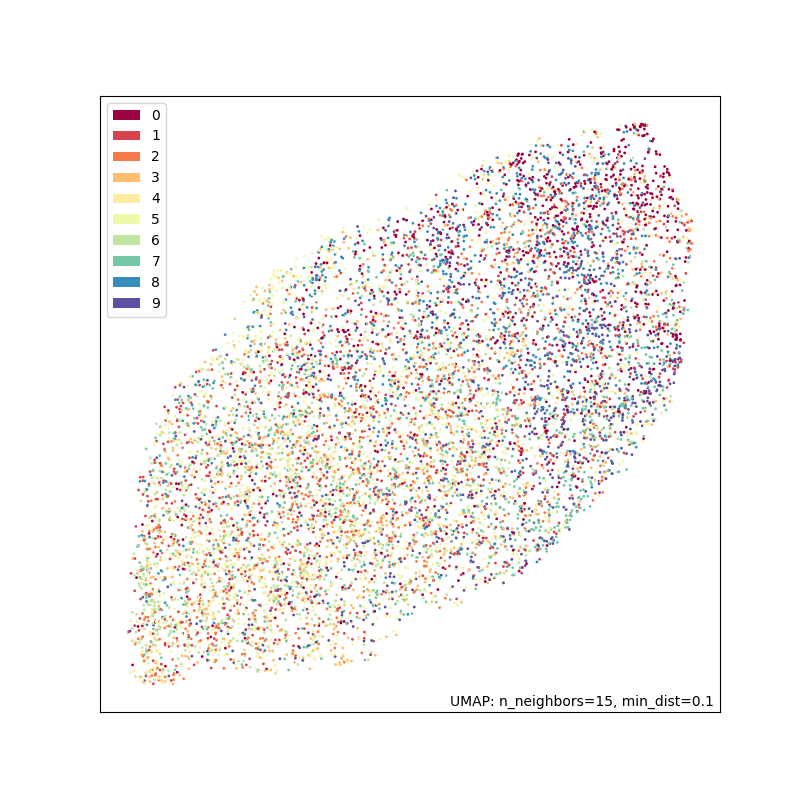
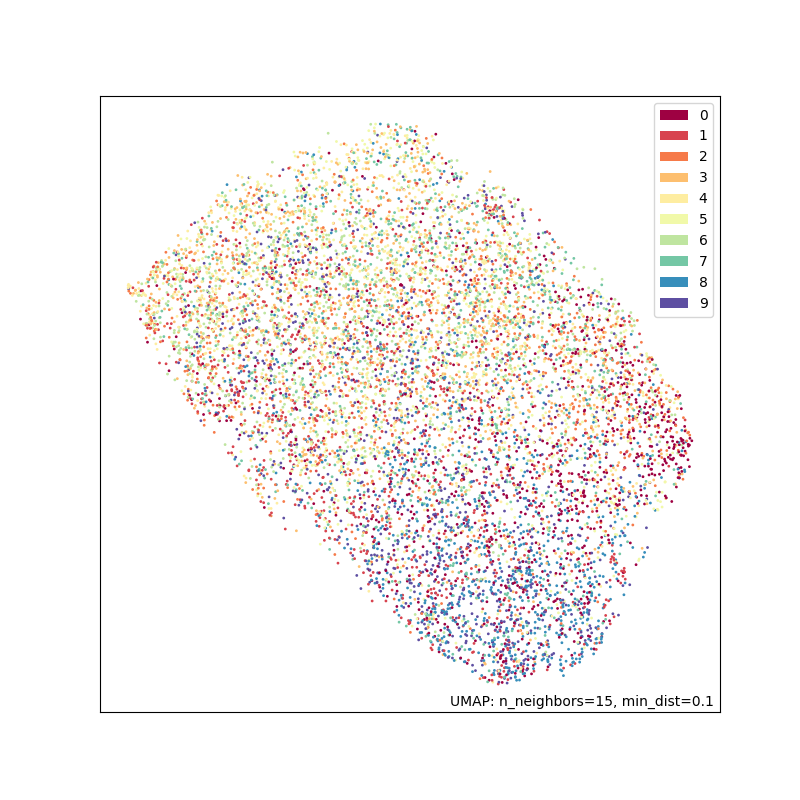
pseudo-classification experiments

Changed region(s): [[0.125, 0.125, 0.9062, 0.875]]

diff --git a/model/encoder_training_sandbox.py b/model/encoder_training_sandbox.py
@@ -121,7 +121,6 @@ class GradualSupervised(keras.Model):
         self.probe_accuracy = keras.metrics.SparseCategoricalAccuracy(name="p_acc")
 
         self.pseudo_loss = keras.losses.SparseCategoricalCrossentropy()
-        self.pseudo_loss_three = tf.keras.losses.SparseCategoricalCrossentropy()
 
 
     @property
@@ -252,6 +251,7 @@ class GradualSupervised(keras.Model):
         
         # print(f'{[c.shape for c in acc]}')
         return np.asarray(acc)
+    
     def pseudo_classified_test(self, unlabeled_images, labeled_images, labels):
         unlabeled_encodings = self.encoder(unlabeled_images)
         labeled_encodings = self.encoder(labeled_images)
@@ -309,45 +309,131 @@ class GradualSupervised(keras.Model):
         
         # print('finished!')
         exit()
-
-    
     
     def pseudo_classified_three(self, unlabeled_images, labeled_images, labels):
-        def distance_handler(unlabeled_encoding):
-            distances = tf.stack([tf.reduce_mean(tf.reduce_sum((tf.broadcast_to(unlabeled_encoding, c.shape) - c) ** 2, axis=1)) for c in labeled_encodings_by_class], axis=0)
-            softmax_distances = tf.nn.softmax(distances)
-            return softmax_distances
+        def distance_handler(unlabeled_encoding, distance_type='dot'):
+            if distance_type=='inv_euc':
+                ## euc_distances
+                distance = tf.stack(
+                    [tf.reduce_mean(
+                        1/tf.reduce_sum(
+                            (tf.broadcast_to(unlabeled_encoding, c.shape) - c) ** 2, axis=1)) for c in labeled_encodings_by_class], axis=0)
+            else: 
+                distances = tf.stack([tf.reduce_mean(
+                    tf.einsum('j, ij->i', unlabeled_encoding, c)) for c in labeled_encodings_by_class])
+            distances = tf.nn.softmax(distances)
+
+            return distances
+        def distance_handler_labeled_encodings(labeled_encoding, distance_type='dot'):
+
+            if distance_type=='inv_euc':
+                distances = tf.stack([tf.reduce_mean(
+                    1/tf.reduce_sum(
+                        (tf.broadcast_to(tf.expand_dims(labeled_encoding, axis=0), c.shape) - c) ** 2, axis=-1)) for c in unlabeled_labeled_weighted_distances], axis=0)
+            else:
+                distances = tf.stack([tf.reduce_mean(
+                    tf.einsum('j, ij->i', labeled_encoding, c)) for c in unlabeled_labeled_weighted_distances])
+            distances = tf.nn.softmax(distances)
+            return distances
         
-        unlabeled_encodings = self.encoder(unlabeled_images)
-        print(f'{unlabeled_encodings.shape=}') #TensorShape([263, 128])
-        print(f'{labels.shape=}') #[263, 1]
-        classes, idx = tf.unique(tf.squeeze(labels))
+        with tf.GradientTape() as tape:
+            unlabeled_encodings = self.encoder(unlabeled_images, training=False)
+            # print(f'{unlabeled_encodings.shape=}') #TensorShape([263, 128])
+            # print(f'{labels.shape=}') #[263, 1]
+            classes, _ = tf.unique(tf.squeeze(labels))
 
-        print(f'{classes.shape=}') #[10]
+            # print(f'{classes.shape=}') #[10]
 
-        class_indices = [tf.experimental.numpy.nonzero(labels==c)[0] for c in classes]
-        labels_by_class = [labels.numpy()[c_idx] for c_idx in class_indices]
-        labeled_images_by_class = [labeled_images.numpy()[c_idx] for c_idx in class_indices]
-        labeled_encodings_by_class = [self.encoder(c) for c in labeled_images_by_class]
-        unlabeled_labeled_softmaxed_distances = tf.map_fn(distance_handler, unlabeled_encodings)
-        # print(f'{unlabeled_labeled_softmaxed_distances.shape=}') #[263, 10]
-        unlabeled_labeled_weighted_distances = tf.einsum('ij, ik -> kij', unlabeled_encodings, unlabeled_labeled_softmaxed_distances)
-        print(f'{unlabeled_labeled_weighted_distances.shape=}') #[10, 128, 263]; [num_classes, enc_sz, num_unlabeled]
+            class_indices = [tf.experimental.numpy.nonzero(labels==c)[0] for c in classes]
+            labels_by_class = [labels.numpy()[c_idx] for c_idx in class_indices]
+            labeled_images_by_class = [labeled_images.numpy()[c_idx] for c_idx in class_indices]
+            labeled_encodings_by_class = [self.encoder(c, training=True) for c in labeled_images_by_class]
+            unlabeled_labeled_softmaxed_distances = tf.map_fn(distance_handler, unlabeled_encodings)
+            # print(f'{unlabeled_labeled_softmaxed_distances.shape=}') #[263, 10]
+            unlabeled_labeled_weighted_distances = tf.einsum('ij, ik -> kij', unlabeled_encodings, unlabeled_labeled_softmaxed_distances)
+            # print(f'{unlabeled_labeled_weighted_distances.shape=}') #[10, 128, 263]; [num_classes, enc_sz, num_unlabeled]
 
-        def distance_handler_labeled_encodings(labeled_encoding):
-            distance = tf.stack([tf.reduce_mean(tf.reduce_sum((tf.broadcast_to(tf.expand_dims(labeled_encoding, axis=0), c.shape) - c) ** 2, axis=-1)) for c in unlabeled_labeled_weighted_distances], axis=0)
-            distance = tf.nn.softmax(distance)
-            return distance
+            pseudo_loss_acc = 0
+            for labeled_encodings, class_labels in zip(labeled_encodings_by_class, labels_by_class):
+                # print(f'{labeled_encodings.shape=}')
+                pseudo_predictions = tf.map_fn(distance_handler_labeled_encodings, labeled_encodings)
+                # print(f'{pseudo_predictions.shape=}')
+
+                pseudo_loss = self.pseudo_loss(class_labels, pseudo_predictions)
+
+                # Class proportion-weighted loss accumulation
+                loss_weight = len(class_labels) / self.cur_num_classes
+                pseudo_loss_acc += loss_weight*pseudo_loss
+                # print(f'{pseudo_loss=}')
+
+        # encoder_gradients = [tape.gradient(pseudo_loss, self.encoder.trainable_weights) for pseudo_loss in pseudo_loss_acc]
+        # for encoder_gradient in encoder_gradients:
+        #     self.pseudo_optimizer.apply_gradients(zip(encoder_gradient, self.encoder.trainable_weights))
+        encoder_gradient = tape.gradient(pseudo_loss_acc, self.encoder.trainable_weights)
+        self.pseudo_optimizer.apply_gradients(zip(encoder_gradient, self.encoder.trainable_weights))
+    
+    def pseudo_classified_four(self, unlabeled_images, labeled_images, labels):
+        with tf.GradientTape(persistent=True) as tape:
+            unlabeled_encodings = self.encoder(unlabeled_images, training=False) #[473, 128]
+            labeled_encodings = self.encoder(labeled_images, training=True) #[52, 128]
+
+            # Similarity between labeled and unlabeled points
+            unlabeled_labeled_dots = tf.einsum('ij, kj -> ik', unlabeled_encodings, labeled_encodings) #[473, 52]
+            # unlabeled_labeled_dots = tf.nn.softmax(unlabeled_labeled_dots) # Is this needed?
+            
+            # Weigh the unlabeled points by the similarity
+            weighted_unlabeled_encodings = tf.einsum('ij, ik -> jik', unlabeled_labeled_dots, unlabeled_encodings) #[52, 473, 128]; [num_labeled, num_unlabeled, enc_sz]
+
+            # For each labeled point, find weighted average to all unlabeled points
+            # This transforms each labeled point into a "meta" point
+            pseudo_predictions = tf.einsum('ijk, ik -> ik', weighted_unlabeled_encodings, labeled_encodings) #[52, 128]
+            pseudo_predictions = self.pseudo_linear_probe(pseudo_predictions, training=True)
+            # pseudo_predictions = self.linear_probe(pseudo_predictions, training=True)
+
+            pseudo_loss = self.pseudo_loss(labels, pseudo_predictions)
+
+        encoder_gradients = tape.gradient(pseudo_loss, self.encoder.trainable_weights)
+        self.contrastive_optimizer.apply_gradients(zip(encoder_gradients, self.encoder.trainable_weights))
         
-        for labeled_encodings, class_labels in zip(labeled_encodings_by_class, labels_by_class):
-            print(f'{labeled_encodings.shape=}')
-            pseudo_predictions = tf.map_fn(distance_handler_labeled_encodings, labeled_encodings)
-            print(f'{pseudo_predictions.shape=}')
+        pseudo_linear_probe_gradients = tape.gradient(pseudo_loss, self.pseudo_linear_probe.trainable_weights)
+        self.pseudo_optimizer.apply_gradients(zip(pseudo_linear_probe_gradients, self.pseudo_linear_probe.trainable_weights))
+        # linear_probe_gradients = tape.gradient(pseudo_loss, self.linear_probe.trainable_weights)
+        # self.pseudo_optimizer.apply_gradients(zip(linear_probe_gradients, self.linear_probe_gradients.trainable_weights))
+    
+    def pseudo_classified_five(self, unlabeled_images: tf.Tensor, labeled_images: tf.Tensor):
+        """ An encoder-updating method using cosine-similarities between unlabeled and labeled encodings
+            to create "meta"-labeled points. Minimize the distance between each labeled encoding and its
+            meta variant.
 
-            pseudo_loss = self.pseudo_loss_three(class_labels, pseudo_predictions)
-            print(f'{pseudo_loss=}')
-            break
-        exit()
+            Improves contrastive performance compared to plain GradualSupervised()
+
+        Args:
+            unlabeled_images (tf.Tensor
+            labeled_images (tf.Tensor)
+        """        
+        with tf.GradientTape() as tape:
+
+            # Obtain images' encodings
+            unlabeled_encodings = self.encoder(unlabeled_images, training=False) #[473, 128]
+            labeled_encodings = self.encoder(labeled_images, training=True) #[52, 128]
+
+            # Similarity between labeled and unlabeled points
+            unlabeled_labeled_dots = tf.einsum('ij, kj -> ik', unlabeled_encodings, labeled_encodings) #[473, 52]
+            unlabeled_labeled_dots = tf.nn.softmax(unlabeled_labeled_dots) 
+            
+            # Weigh the unlabeled points by the similarity
+            weighted_unlabeled_encodings = tf.einsum('ij, ik -> jik', unlabeled_labeled_dots, unlabeled_encodings) #[52, 473, 128]; [num_labeled, num_unlabeled, enc_sz]
+
+            # For each labeled point, find weighted average to all unlabeled points
+            # This transforms each labeled point into a "meta" point
+            pseudo_points = tf.einsum('ijk, ik -> ik', weighted_unlabeled_encodings, labeled_encodings) #[52, 128]
+
+            # Find average log euc-distance between each labeled_point and its meta counterpart
+            pseudo_loss = -tf.reduce_mean(tf.math.log(tf.math.sqrt(tf.reduce_sum((pseudo_points-labeled_encodings)**2, axis=-1))))
+
+        encoder_gradients = tape.gradient(pseudo_loss, self.encoder.trainable_weights)
+        self.contrastive_optimizer.apply_gradients(zip(encoder_gradients, self.encoder.trainable_weights))
+
     def train_step(self, data: tuple[tf.Tensor, tuple[tf.Tensor, tf.Tensor]]) -> dict[str, tf.float32]:
         """ Runs the training routine for a single step; i.e. trains on a single batch
             Training routine consists of two steps:
@@ -398,14 +484,16 @@ class GradualSupervised(keras.Model):
         # Consider: pseudolabels? 
         
         # class_logits, probe_loss = self.pseudo_classified(unlabeled_images, labeled_images, labels)
-        self.pseudo_classified_three(unlabeled_images, labeled_images, labels)
+        # self.pseudo_classified_three(unlabeled_images, labeled_images, labels)
+        # self.pseudo_classified_four(unlabeled_images, labeled_images, labels)
+        # self.pseudo_classified_five(unlabeled_images, labeled_images)
         # Below becomes linear-probe specific training phase (i.e. self.encoder(training=False))
         ########################################################################
         # Only labeled images are used WITH LABELS
         preprocessed_images = self.classification_augmenter(
             labeled_images, training=True
         )
-        '''
+        
         # BEGIN SEMI-SUPERVISED PORTION
 
         # Use linear probe's classification loss to update both ENCODER and LINEAR PROBE
@@ -420,8 +508,8 @@ class GradualSupervised(keras.Model):
         self.probe_optimizer.apply_gradients(
             zip(probe_gradients, self.linear_probe.trainable_weights)
         )
-        '''
         
+        '''
         # With training encoder
         # NOTE: we didn't actually update encoder LMAO
         with tf.GradientTape(persistent=True) as tape:
@@ -437,7 +525,7 @@ class GradualSupervised(keras.Model):
             zip(encoder_gradients, self.encoder.trainable_weights)
         )
         del tape
-        
+        '''
         self.probe_loss_tracker.update_state(probe_loss)
         self.probe_accuracy.update_state(labels, class_logits)
         # END SEMI-SUPERVISED PORTION
@@ -467,7 +555,7 @@ if __name__ == '__main__':
     # Contrastive pretraining
     gradual_supervised_model = GradualSupervised(train, test,
                                               num_classes_range=10,
-                                              split_rate_range=0.5,
+                                              split_rate_range=(0.01, 0.9),
                                               contrastive_learning_rate_range=0.01,
                                               probe_learning_rate_range=(0.01,0.03))
 
@@ -476,7 +564,7 @@ if __name__ == '__main__':
         contrastive_optimizer=keras.optimizers.Adam(gradual_supervised_model.curr_contrastive_learning_rate),
         pseudo_optimizer=keras.optimizers.Adam(gradual_supervised_model.curr_contrastive_learning_rate),
         probe_optimizer=keras.optimizers.Adam(gradual_supervised_model.curr_probe_learning_rate),
-        run_eagerly=True # TODO: REMOVE THIS
+        # run_eagerly=True # TODO: Uncomment if debugging
     )
     
     model_history = defaultdict(lambda: [])
@@ -497,6 +585,6 @@ if __name__ == '__main__':
     )
     title_acc = "{:.2f}".format(max(model_history["val_p_acc"]) * 100)
 
-    os.makedirs(r'../checkpoints', exist_ok=True)
-    gradual_supervised_model.save_weights(f'../checkpoints/gradual_pseudo_supervised_model_{title_acc}.weights.h5')
-    print('Successfully saved model!')
+    # os.makedirs(r'../checkpoints', exist_ok=True)
+    # gradual_supervised_model.save_weights(f'../checkpoints/gradual_pseudo_supervised_model_{title_acc}.weights.h5')
+    # print('Successfully saved model!')

diff --git a/visualizations/latent_space_visualize.py b/visualizations/latent_space_visualize.py
@@ -267,7 +267,7 @@ def main():
     ''' Main method of the file called when th fle s run '''
     # create the model instance and 
     # model = GradualSupervised()
-    model = load_model(model_type='GradualSupervised', weight_path=r'../checkpoints/gradual_pseudo_supervised_model_46.76.weights.h5')
+    model = load_model(model_type='GradualSupervised', weight_path=r'../checkpoints/gradual_pseudo_supervised_model_29.11.weights.h5')
     print("Model Loaded")
     train_dataset, labeled_train_dataset, test_dataset = load_dataset(model)
     encoded_features, true_labels = generate_latent_embeddings(model, test_dataset)
